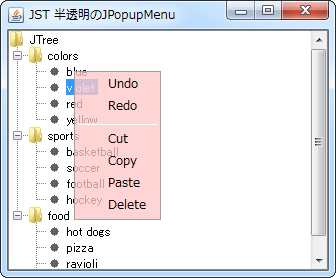
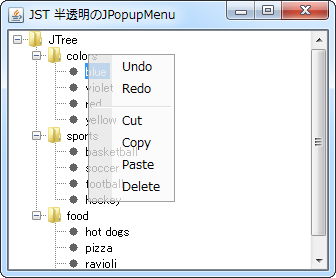
Update: style, screenshot

Changed region(s): [[0.0298, 0.0863, 0.5357, 0.9784]]

diff --git a/TranslucentPopupMenu/src/java/example/MainPanel.java b/TranslucentPopupMenu/src/java/example/MainPanel.java
@@ -4,6 +4,7 @@ package example;
 //@homepage@
 import java.awt.*;
 import javax.swing.*;
+import javax.swing.plaf.*;
 
 public class MainPanel extends JPanel{
     private final JComponent tree = new JTree();
@@ -55,15 +56,23 @@ public class MainPanel extends JPanel{
 
 class TranslucentPopupMenu extends JPopupMenu{
     private static final Color ALPHA_ZERO = new Color(0, true);
-    private static final Color POPUP_BACK = new Color(255,200,200,200);
+    private static final Color POPUP_BACK = new Color(250,250,250,200);
+    private static final Color POPUP_LEFT = new Color(230,230,230,200);
+    private static final int LEFT_WIDTH = 24;
     @Override public boolean isOpaque() {
         return false;
     }
+    @Override public void updateUI() {
+        super.updateUI();
+        boolean isNimbus = UIManager.getBorder("PopupMenu.border")==null;
+        if(isNimbus) {
+            setBorder(new BorderUIResource(BorderFactory.createLineBorder(Color.GRAY)));
+        }
+    }
     @Override public JMenuItem add(JMenuItem menuItem) {
         menuItem.setOpaque(false);
-        menuItem.setBackground(ALPHA_ZERO);
-        super.add(menuItem);
-        return menuItem;
+        //menuItem.setBackground(ALPHA_ZERO);
+        return super.add(menuItem);
     }
     @Override public void show(Component c, int x, int y) {
         EventQueue.invokeLater(new Runnable() {
@@ -90,8 +99,10 @@ class TranslucentPopupMenu extends JPopupMenu{
     }
     @Override protected void paintComponent(Graphics g) {
         Graphics2D g2 = (Graphics2D)g.create();
+        g2.setPaint(POPUP_LEFT);
+        g2.fillRect(0,0,LEFT_WIDTH,getHeight());
         g2.setPaint(POPUP_BACK);
-        g2.fillRect(0,0,getWidth(),getHeight());
+        g2.fillRect(LEFT_WIDTH,0,getWidth(),getHeight());
         g2.dispose();
         //super.paintComponent(g);
     }
